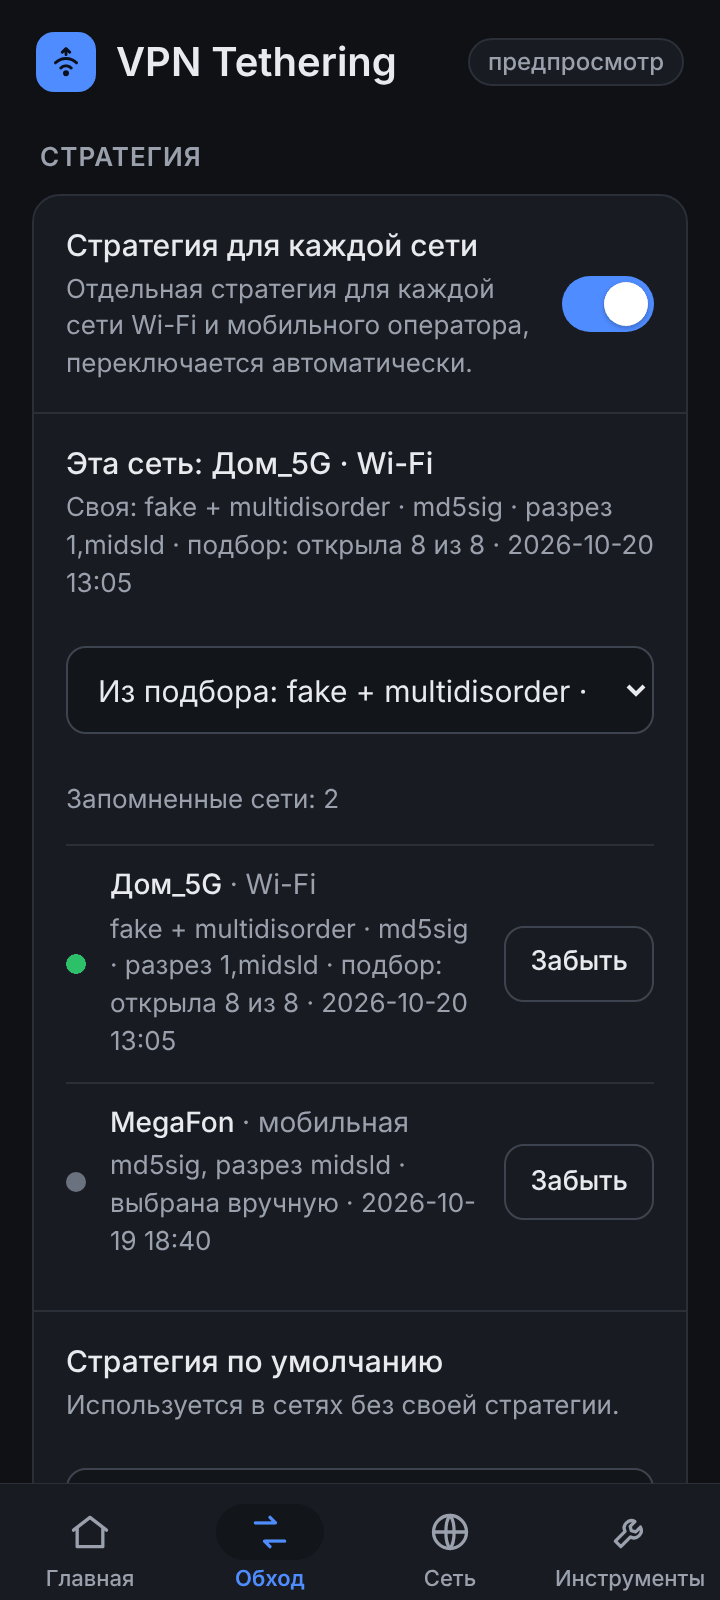
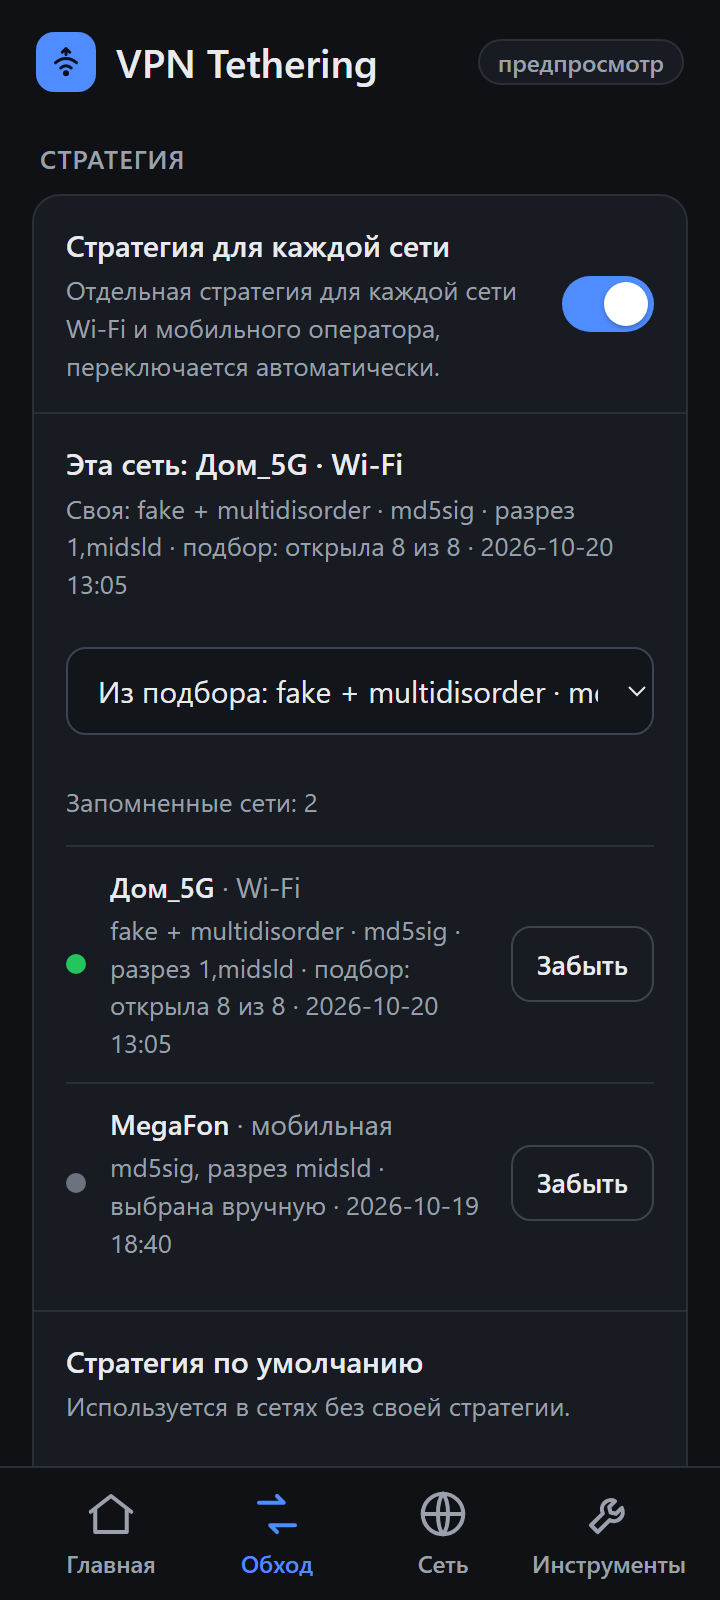
README: тема на 4PDA showtopic=1097835, скриншоты WebUI пересняты под 3.12

diff --git a/README.md b/README.md
@@ -15,7 +15,7 @@
 [![Android](https://img.shields.io/badge/Android-arm64%20%7C%20armv7-3ddc84?logo=android&logoColor=white)](#совместимость)
 
 [Скачать](https://github.com/JagKubarev/vpn-tethering-ultra/releases/latest) ·
-[Тема на 4PDA](https://4pda.to/forum/index.php?showtopic=915158) ·
+[Тема на 4PDA](https://4pda.to/forum/index.php?showtopic=1097835) ·
 [Все настройки](docs/settings.md) ·
 [История изменений](CHANGELOG.md) ·
 [English](#english)
@@ -180,7 +180,7 @@ cd vpn-tethering-ultra/module && zip -r ../vpn-tethering-ultra.zip .
 Основной лог — `/data/local/tmp/vpn_tether.log` (прошлый запуск — `vpn_tether.log.prev`),
 сообщения дублируются в logcat с тегом `vpn_tether`. Хвост лога виден во вкладке «Инструменты»,
 там же кнопка «Отправить логи». С вопросами и логами — в
-[тему на 4PDA](https://4pda.to/forum/index.php?showtopic=915158).
+[тему на 4PDA](https://4pda.to/forum/index.php?showtopic=1097835).
 
 ## Версии
 

diff --git a/CLAUDE.md b/CLAUDE.md
@@ -1,7 +1,7 @@
 # VPN Tethering Ultra — контекст для сессий Claude
 
 KernelSU/Magisk-модуль (id `vpn-to-hotspot-usb`, автор Kubarev, тема на 4PDA
-`showtopic=915158`). Раздаёт Wi-Fi/USB через VPN телефона или напрямую: kill-switch,
+`showtopic=1097835`). Раздаёт Wi-Fi/USB через VPN телефона или напрямую: kill-switch,
 свой DNS через dnsproxy (DoH), обход DPI ТСПУ через zapret/nfqws, приёмы для YouTube.
 Лицензия кода — GPL-3.0 (`LICENSE`, копия в `module/LICENSE`).
 

diff --git a/AGENTS.md b/AGENTS.md
@@ -1,7 +1,7 @@
 # VPN Tethering Ultra — контекст для сессий Codex
 
 KernelSU/Magisk-модуль (id `vpn-to-hotspot-usb`, автор Kubarev, тема на 4PDA
-`showtopic=915158`). Раздаёт Wi-Fi/USB через VPN телефона или напрямую: kill-switch,
+`showtopic=1097835`). Раздаёт Wi-Fi/USB через VPN телефона или напрямую: kill-switch,
 свой DNS через dnsproxy (DoH), обход DPI ТСПУ через zapret/nfqws, приёмы для YouTube.
 Лицензия кода — GPL-3.0 (`LICENSE`, копия в `module/LICENSE`).
 
